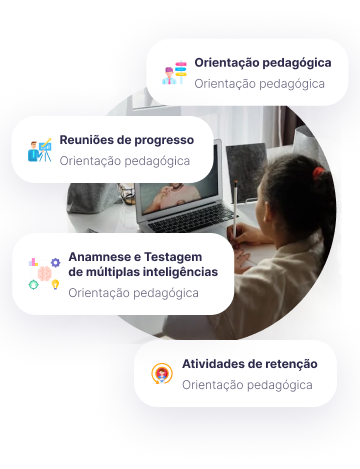
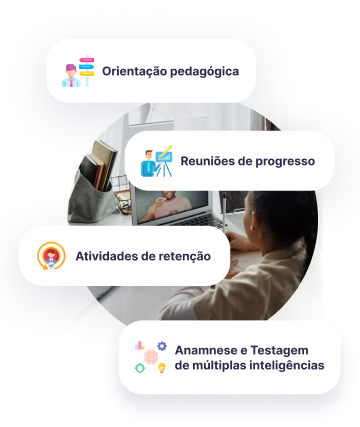
add order now and statistics

Changed region(s): [[0.0611, 0.1218, 0.9472, 0.8829], [0.3667, 0.8525, 0.3972, 0.8829]]

diff --git a/apps/frontend/app/components/sections/statistics/statistics.module.scss b/apps/frontend/app/components/sections/statistics/statistics.module.scss
@@ -1,0 +1,64 @@
+@import '../../../core/scss/globals.scss';
+
+.wrapper {
+  display: flex;
+  flex-direction: column;
+  padding: 20px 40px;
+  align-items: center;
+  justify-self: center;
+  width: 100%;
+  gap: 20px;
+  @include medium {
+    gap: 40px;
+    padding: 40px 60px;
+  }
+  @include large {
+    gap: 60px;
+    padding: 60px 80px;
+  }
+
+  .box {
+    height: fit-content;
+    background: getBaseColor($primary_down);
+    display: flex;
+    flex-direction: column;
+    border-radius: 30px;
+    padding: 0 40px;
+    align-items: center;
+    justify-content: center;
+    width: fit-content;
+
+    @include medium {
+    flex-direction: row;
+    }
+    @include large {
+      flex-direction: row;
+      width: fit-content;
+    }
+    .box_item {
+      display: flex;
+      flex-direction: column;
+      align-items: center;
+      justify-self: center;
+      padding: 40px;
+      @include medium {
+        &.dashed {
+          border-right: 1px dashed rgba(255, 255, 255, 0.482);
+          border-left: 1px dashed rgba(255, 255, 255, 0.482);
+        }
+      }
+      .count {
+        font-family: 'Inter';
+        color: WHITE;
+        font-size: 48px;
+        line-height: 100%;
+        font-weight: 700;
+      }
+      .label {
+        font-family: 'Inter';
+        color: white;
+        font-size: 24px;
+      }
+    }
+  }
+}

diff --git a/apps/frontend/app/components/sections/header-cta/header-cta.module.scss b/apps/frontend/app/components/sections/header-cta/header-cta.module.scss
@@ -12,13 +12,17 @@
   padding: 10px 20px;
   justify-content: center;
   width: 100%;
-  gap: 60px;
+  gap: 20px;
   flex-direction: column-reverse;
+  text-align: center;
   @include medium {
+    gap: 40px;
+    text-align: start;
     padding: 20px 40px;
     flex-direction: row;
   }
   @include large {
+    gap: 60px;
     padding: 60px 80px;
   }
   @include xlarge {
@@ -44,9 +48,12 @@
   .text_wrapper {
     flex: 1;
     display: flex;
-    align-items: flex-start;
+    align-items: center;
     flex-direction: column;
     gap: 16px;
+    @include medium {
+      align-items: flex-start;
+    }
     .h1_cta {
       width: 100%;
       font-size: 24px;
@@ -73,12 +80,15 @@
     }
 
     p {
+      width: 100%;
       font-size: 14px;
       font-weight: 300;
       color: getBaseColor($neutral_7);
-      max-width: 400px;
       margin-bottom: 40px;
+      text-align: center;
+      max-width: 400px;
       @include medium {
+        text-align: start;
         font-size: 18px;
       }
 

diff --git a/apps/frontend/app/components/sections/order-now/order-now.tsx b/apps/frontend/app/components/sections/order-now/order-now.tsx
@@ -1,0 +1,17 @@
+import { EAGButton } from '../../core/button/button';
+import { Tittle } from '../../elements/title/title';
+import styles from './order-now.module.scss';
+export const OrderNow = () => (
+  <div className={styles.wrapper}>
+    <Tittle
+      title="Agende suas aulas agora mesmo"
+      subtitle="Entre em contato diretamente pelo whatsapp e marque suas aulas"
+    ></Tittle>
+    <EAGButton
+      src="https://l.instagram.com/?u=https%3A%2F%2Fwa.me%2F558499568297%3Ftext%3DOl%25C3%25A1%2521%2BVim%2Bpelo%2BInstagram.%2BGostaria%2Bde%2Bmais%2Binforma%25C3%25A7%25C3%25B5es%2Bsobre...&e=AT14gLvxfBgdiMcfSZ2nvO9_9SCiOB-TKfuL4BBp1EogaE-CAVSZmlhKrGVmLBT20qCijde8Rj-gb2E8unYi7Gcf9oMA5jYWZ-GGGR7AF7hLl_hhlAbjHA"
+      target="__blank"
+    >
+      Agendar Aulas
+    </EAGButton>
+  </div>
+);

diff --git a/apps/frontend/app/modules/home/home.module.tsx b/apps/frontend/app/modules/home/home.module.tsx
@@ -5,11 +5,15 @@ import { MoreFeatures } from '../../components/sections/more-features/more-featu
 import styles from './home.module.scss'
 import { TestimonialCard } from '../../components/elements/testimonial-card/testimonial-card';
 import { Testimonials } from '../../components/sections/testimonials/testimonials';
+import { OrderNow } from '../../components/sections/order-now/order-now';
+import { Statistics } from '../../components/sections/statistics/statistics';
 export const HomeModule = () => (
   <div className={styles.home_wrapper}>
     <Navbar></Navbar>
     <HeaderCTA></HeaderCTA>
     <MoreFeatures></MoreFeatures>
     <Testimonials></Testimonials>
+    <OrderNow></OrderNow>
+    <Statistics></Statistics>
   </div>
 );

diff --git a/apps/frontend/app/components/sections/statistics/statistics.tsx b/apps/frontend/app/components/sections/statistics/statistics.tsx
@@ -1,0 +1,19 @@
+import styles from './statistics.module.scss';
+export const Statistics = () => (
+  <div className={styles.wrapper}>
+    <div className={styles.box}>
+      <div className={styles.box_item}>
+        <span className={styles.count}>100+</span>
+        <span className={styles.label}>Alunos</span>
+      </div>
+      <div className={styles.box_item + ' '+ styles.dashed}>
+        <span className={styles.count}>100+</span>
+        <span className={styles.label}>Horas Aula</span>
+      </div>
+      <div className={styles.box_item}>
+        <span className={styles.count}>24h</span>
+        <span className={styles.label}>Atendimento</span>
+      </div>
+    </div>
+  </div>
+);

diff --git a/apps/frontend/app/components/core/button/button.module.scss b/apps/frontend/app/components/core/button/button.module.scss
@@ -1,6 +1,6 @@
 @import '../../../core/scss/globals';
 
-.button_wrapper{
+.button_wrapper {
   background-color: getBaseColor($primary_pure);
   padding: 12px 40px;
   color: getBaseColor($pure_white);
@@ -12,6 +12,13 @@
   justify-content: center;
   align-items: center;
   cursor: pointer;
+  &.block {
+    width: 100%;
+  }
+  &.cta {
+    font-size: 16px;
+    width: 100%;
+  }
   @include medium {
     font-size: 18px;
   }

diff --git a/apps/frontend/app/components/core/button/button.tsx b/apps/frontend/app/components/core/button/button.tsx
@@ -1,5 +1,11 @@
 import React from 'react';
 import styles from './button.module.scss';
-export const EAGButton = ({ children }: any) => (
-  <a className={styles.button_wrapper}>{children}</a>
+export const EAGButton = ({ src, target, children }: any) => (
+  <a
+    href={src}
+    target={target}
+    className={styles.button_wrapper + ' ' + styles.cta}
+  >
+    {children}
+  </a>
 );

diff --git a/apps/frontend/app/components/sections/testimonials/testimonials.tsx b/apps/frontend/app/components/sections/testimonials/testimonials.tsx
@@ -18,8 +18,6 @@ export const Testimonials = () => (
       className={styles.swiper}
       spaceBetween={40}
       slidesPerView={'auto'}
-      onSlideChange={() => console.log('slide change')}
-      onSwiper={(swiper) => console.log(swiper)}
     >
       <SwiperSlide className={styles.swiper_slide}>
         <TestimonialCard></TestimonialCard>

diff --git a/apps/frontend/app/components/sections/order-now/order-now.module.scss b/apps/frontend/app/components/sections/order-now/order-now.module.scss
@@ -1,0 +1,18 @@
+@import '../../../core/scss/globals.scss';
+
+.wrapper {
+  display: flex;
+  flex-direction: column;
+  padding: 20px 40px;
+  align-items: center;
+  justify-self: center;
+  gap: 20px;
+  @include medium {
+    gap: 40px;
+    padding: 20px 60px;
+  }
+  @include large {
+    gap: 60px;
+    padding: 20px 80px;
+  }
+}

diff --git a/apps/frontend/app/components/sections/more-features/more-features.module.scss b/apps/frontend/app/components/sections/more-features/more-features.module.scss
@@ -24,6 +24,7 @@
     align-items: center;
     flex-direction: column;
     gap: 40px;
+    flex: 1;
     @include large {
       flex-direction: row;
     }
@@ -47,6 +48,7 @@
     }
   }
   .feature_items_wrapper {
+    flex: 1;
     width: 100%;
     display: grid;
     grid-template-columns: repeat(auto-fill, minmax(150px, 3.5fr));

diff --git a/apps/frontend/app/components/elements/title/title.module.scss b/apps/frontend/app/components/elements/title/title.module.scss
@@ -8,7 +8,7 @@
     text-align: center;
 
     .title {
-      font-size: 16px;
+      font-size: 18px;
       font-weight: 700;
       color: getBaseColor($neutral_9);
 

diff --git a/apps/frontend/app/page.tsx b/apps/frontend/app/page.tsx
@@ -1,0 +1,7 @@
+import { HomeModule } from "./modules/home/home.module";
+
+const Page = () => {
+  return <HomeModule></HomeModule>;
+};
+
+export default Page;
